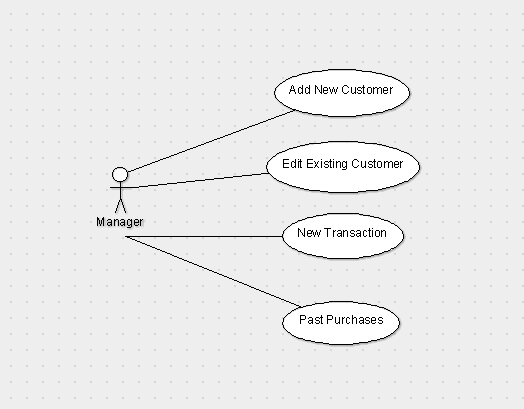
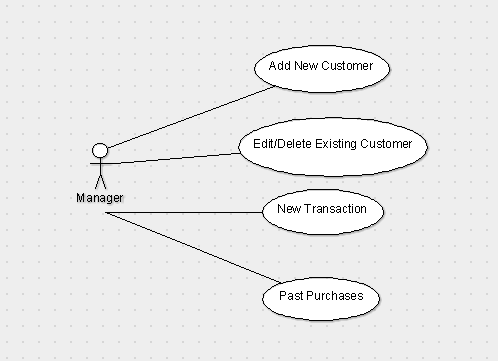
Minor change to usecase png and next draft of document

diff --git a/Project2/D1/UseCaseModel.md b/Project2/D1/UseCaseModel.md
@@ -11,7 +11,9 @@
 **Add Customer**
 -----------------
 This will allow the manager to add a new customer to the system. In order to add customers the  
-system will need to be run on an Android device.
+system will need to be run on an Android device. Once this use case is complete, the customer  
+must be input into the system and saved into the database for future access, then the system  
+will revert to the initial screen.
 
 **Scenario**
 - Manager opens system and selects "Add new customer"
@@ -21,9 +23,11 @@ system will need to be run on an Android device.
 
 **Edit/Delete Existing Customer**
 ---------------------------------
-This will allow the manager to edit an existing customer in the database. In order to edit a customer  
-there must be at least one customer already in the system. If this condition is not met the customers  
-list will show as empty
+This will allow the manager to edit an existing customer in the database. In order to edit or delete  
+a customer there must be at least one customer already in the system. If this condition is not met the  
+customers list will show as empty. Once the use case is run, the existing customer must either be 
+deleted from the system or have the old information replaced with the new. Also, after running the  
+use case, the system will revert to the initial screen.
 
 **Scenario**
 - Manager opens system and selects "Edit existing customer"
@@ -40,7 +44,9 @@ list will show as empty
 -------------------
 This will allow the manager to make a new transaction using the customer's credit card. To do this  
 the customer must be present with the credit card and the credit card reader must be attached to  
-the device. 
+the device. Once New Transaction is complete, the transaction must be stored in the customer's  
+transaction list, the transaction must be processed through the payment-processing service, and  
+the system must revert to the initial screen.
 
 **Scenario**
 - Manager opens system and selects "New Transaction"
@@ -49,15 +55,17 @@ the device.
 - When customer is selected or entered, a textbox appears to use any discounts available
 - When customer is selected, a star appears next to the name if the customer is a gold member
 - Manager enters discount amount up to the max amount (shown next to textbox)
-- Manager selects "Process" and is promped to use card scanner to read the card
+- Manager selects "Process" and is prompted to use card scanner to read the card
 - After the card is read, the system automatically processes the transaction
 
 **Past Purchases**
 ------------------
 This will let the manager access all past purchases of a customer. In order to so this the customer  
-must be an existing customer in the database.
+must be an existing customer in the database. Once complete, all past purchases will remain as they  
+were without alteration or deletion and the system will revert to the initial screen.
 
 **Scenario**
 - Manager selects "Past Purchases"
 - System prompts manager to select an existing customer
 - Manager selects "Select" which brings up a list of all past purchases of that customer
+- Manager selects "Home" when finished and system reverts to the initial screen
